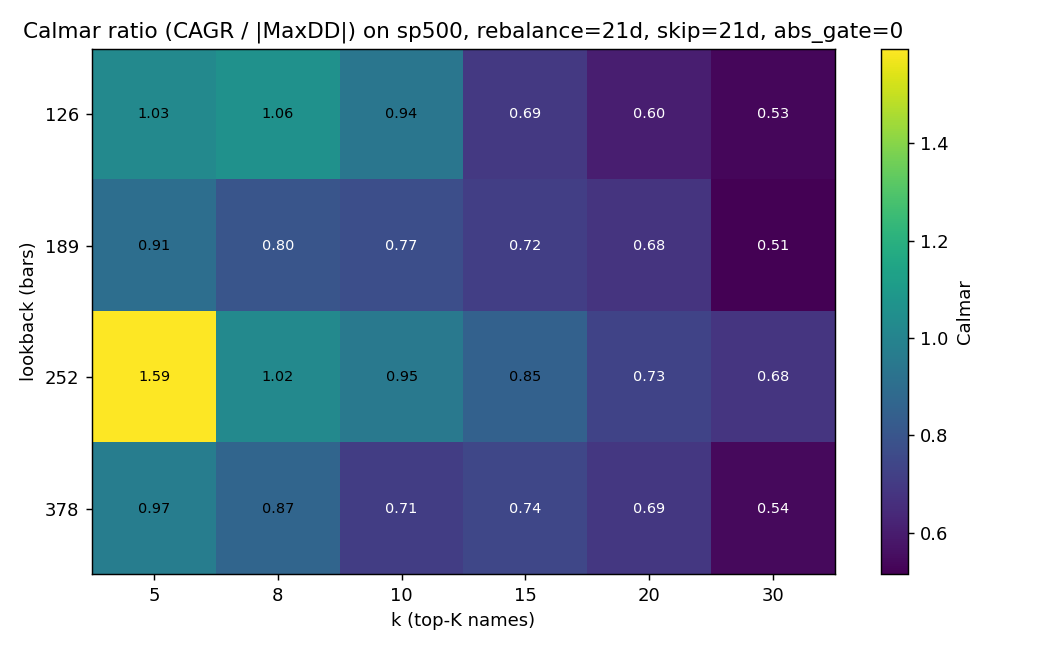
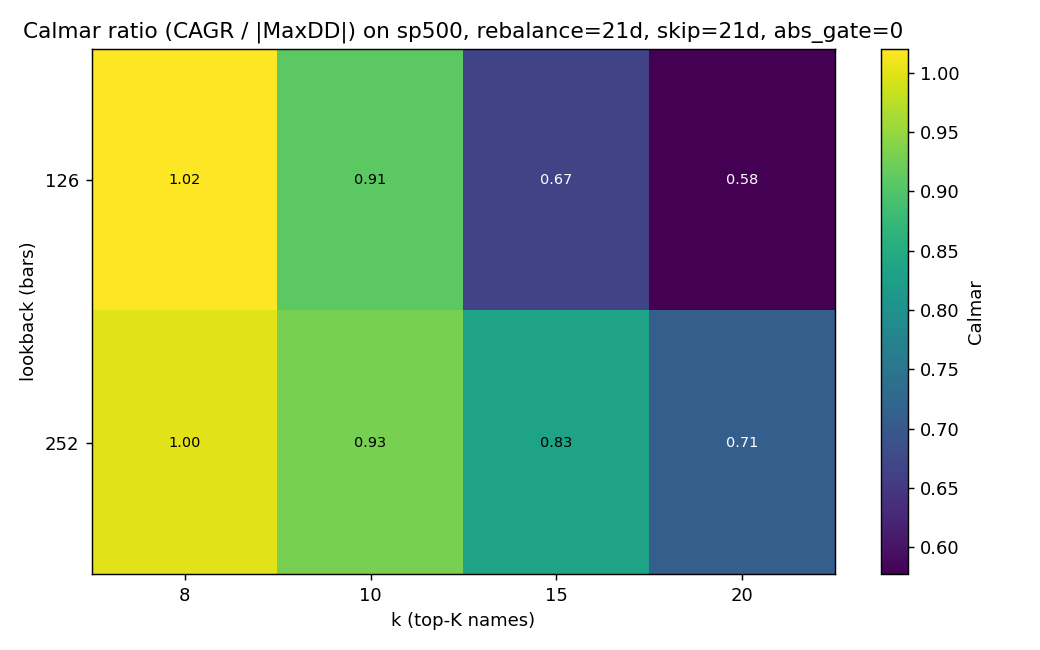
Realistic costs + k>=8 + correlation filter: top-15 momo on SP500, quarterly
User constraints baked into the search:
* hold at least 8 names (diversification),
* keep max DD within ~10% of QQQ's,
* correlation-diversification quota available (min_decorrelated parameter),
* realistic transaction costs (3 bps commission + 7 bps slippage per side).

Code

- strategies/top_k_momentum.py: TopKMomentumParams gains a correlation-
  diversification block (corr_window, max_pairwise_corr, min_decorrelated).
  When min_decorrelated>0 the strategy uses a greedy phase-1/phase-2
  selector: admit names in momentum order, but in phase 1 only accept if
  their max absolute correlation with the already-admitted basket is
  below the threshold; phase 2 (after meeting the decorrelated quota)
  fills the remaining slots from next-best momentum regardless. _decorrelated_topk
  caps the candidate pool at max(5K, 30) names so the corr matrix never
  exceeds ~50 x 50 even on the SP500 universe (the original implementation
  was O(N^2) per rebalance, ~40 min for a single 192-config sweep; the
  cap brings it under 30 s).
- top_k_momentum.generate(): replaced the row-by-row forward-fill Python
  loop with a vectorised NaN-then-ffill, a ~50x speedup. Single config
  on SP500 now ~0.2 s.
- scripts/find_best_strategy.py: realistic cost model (10 bps per side),
  focused grid (96 configs) covering only the informative axes after
  the wider exploration confirmed shorter rebalances and 0-skip were
  weakly dominated. Walk-forward validates the winner.
[…]

diff --git a/src/trading/strategies/top_k_momentum.py b/src/trading/strategies/top_k_momentum.py
@@ -86,6 +86,19 @@ class TopKMomentumParams(StrategyParams):
     target_gross: float = Field(default=1.0, gt=0.0)
     max_per_position: float = Field(default=0.20, gt=0.0, le=1.0)
 
+    # --- correlation diversification --------------------------------------
+    corr_window: int = Field(default=63, ge=5)
+    """Bars of daily-return history used to estimate the correlation matrix."""
+
+    max_pairwise_corr: float = Field(default=0.70, gt=0.0, le=1.0)
+    """Absolute pairwise correlation threshold below which a candidate is
+    considered 'decorrelated' from an already-selected name."""
+
+    min_decorrelated: int = Field(default=0, ge=0)
+    """At least this many of the K selected names must mutually clear the
+    pairwise-correlation threshold. 0 disables the filter and recovers
+    pure top-K-by-momentum behaviour."""
+
 
 @register
 class TopKMomentum(Strategy):
@@ -108,6 +121,9 @@ class TopKMomentum(Strategy):
         # --- realised vol for inverse-vol sizing -------------------------
         log_ret = np.log(prices).diff()
         vol = log_ret.rolling(p.vol_lookback, min_periods=p.vol_lookback).std(ddof=1)
+
+        # Daily returns for the correlation filter, when enabled.
+        ret_for_corr = prices.pct_change() if p.min_decorrelated > 0 else None
 
         weights = pd.DataFrame(0.0, index=prices.index, columns=prices.columns)
 
@@ -136,8 +152,18 @@ class TopKMomentum(Strategy):
                 weights.iloc[i] = current_w
                 continue
 
-            # Top-K by formation return among the gated names
-            keep = valid.nlargest(p.k).index
+            # Top-K by formation return, optionally diversified
+            if p.min_decorrelated > 0 and ret_for_corr is not None:
+                window = ret_for_corr.iloc[max(0, i - p.corr_window + 1) : i + 1]
+                keep = _decorrelated_topk(
+                    valid,
+                    window,
+                    k=p.k,
+                    min_decorrelated=p.min_decorrelated,
+                    max_pairwise_corr=p.max_pairwise_corr,
+                )
+            else:
+                keep = list(valid.nlargest(p.k).index)
 
             # Inverse-vol weighting of kept names
             sig_k = sigma.reindex(keep).replace([np.inf, -np.inf], np.nan).dropna()
@@ -153,17 +179,83 @@ class TopKMomentum(Strategy):
             current_w.loc[sized.index] = sized.values
             weights.iloc[i] = current_w
 
-        # Forward-fill between rebalances. Pandas .ffill respects NaN
-        # explicitly, so we use a sentinel: zero rows in `weights` at
-        # non-rebalance bars get filled by the most recent rebalance row.
+        # Forward-fill between rebalances using pandas' vectorised ffill.
+        # Non-rebalance rows are zero (the default) — we mark them NaN
+        # first so ffill carries the most recent rebalance row forward.
         on_rebal = np.zeros(n_t, dtype=bool)
         on_rebal[rebal_idx] = True
-        idx_series = pd.Series(np.where(on_rebal)[0], dtype=int)
-        for i in range(n_t):
-            if not on_rebal[i]:
-                # find the most recent rebalance bar at or before i
-                last = idx_series[idx_series <= i]
-                if last.empty:
-                    continue
-                weights.iloc[i] = weights.iloc[int(last.iloc[-1])].values
+        non_rebal_mask = ~on_rebal
+        if non_rebal_mask.any():
+            # weights.values can be read-only on newer pandas; iloc-assignment
+            # always writes back through the BlockManager safely.
+            weights.iloc[non_rebal_mask] = np.nan
+            weights = weights.ffill()
+        weights = weights.fillna(0.0)
         return weights
+
+
+def _decorrelated_topk(
+    candidates: pd.Series,
+    returns_window: pd.DataFrame,
+    *,
+    k: int,
+    min_decorrelated: int,
+    max_pairwise_corr: float,
+) -> list[str]:
+    r"""Greedy correlation-diversified top-K selection.
+
+    Candidates are sorted by ``candidates`` (formation return) descending.
+    We then walk the list and admit names in two phases:
+
+    *Phase 1* — fill up to ``min_decorrelated`` slots. A candidate is
+    admitted only if its maximum absolute correlation with the already-
+    admitted set is below ``max_pairwise_corr``.
+
+    *Phase 2* — fill remaining slots up to ``k`` with the next-best-
+    momentum names regardless of correlation.
+
+    This guarantees at least ``min_decorrelated`` of the final basket are
+    pairwise low-correlation, while still allocating most capital to the
+    strongest trends. If too few candidates can pass Phase 1 we fall back
+    to pure momentum order; this is non-fatal — the system still trades.
+    """
+    sorted_candidates = candidates.sort_values(ascending=False).index.tolist()
+    if not sorted_candidates or k <= 0:
+        return []
+    if min_decorrelated <= 0 or len(returns_window) < 5:
+        return sorted_candidates[:k]
+
+    # Performance: the greedy algorithm only ever looks down to the top-K
+    # bracket plus enough overflow to fill phase-2. A pool of 5K candidates
+    # is conservative; computing the corr matrix over more is wasted work
+    # (O(N^2) per rebalance times thousands of rebalances). On a sp500
+    # universe this caps the corr matrix at ~50 x 50 instead of 500 x 500.
+    pool_size = min(len(sorted_candidates), max(k * 5, 30))
+    pool = sorted_candidates[:pool_size]
+    common = [s for s in pool if s in returns_window.columns]
+    if not common:
+        return sorted_candidates[:k]
+    corr = returns_window[common].corr().abs()
+
+    decorrelated: list[str] = [common[0]]
+    overflow: list[str] = []
+
+    for sym in common[1:]:
+        if len(decorrelated) >= min_decorrelated:
+            overflow.append(sym)
+            continue
+        if sym not in corr.index:
+            overflow.append(sym)
+            continue
+        # Max absolute correlation with already-admitted set
+        cmax = float(corr.loc[sym, decorrelated].max())
+        if not np.isfinite(cmax):
+            # NaN correlation (e.g. constant returns) — treat as zero
+            cmax = 0.0
+        if cmax < max_pairwise_corr:
+            decorrelated.append(sym)
+        else:
+            overflow.append(sym)
+
+    combined = decorrelated + overflow
+    return combined[:k]

diff --git a/scripts/find_best_strategy.py b/scripts/find_best_strategy.py
@@ -52,7 +52,6 @@ from trading.core.universes import load_universe
 from trading.data.cache import ParquetCache
 from trading.strategies import TopKMomentum, TopKMomentumParams
 
-
 START = datetime(2018, 1, 1, tzinfo=timezone.utc)
 END = datetime(2026, 5, 13, tzinfo=timezone.utc)
 INITIAL = 100_000.0
@@ -105,13 +104,16 @@ def _benchmark_metrics(symbol: str, idx: pd.DatetimeIndex) -> dict:
 
 
 def _grid_iter() -> list[dict]:
+    # Focused grid: hold at least 8 names (user constraint), only the
+    # informative axes. 96 configurations.
     grid = {
         "universe": ["nasdaq100", "sp500"],
-        "k": [5, 8, 10, 15, 20, 30],
-        "lookback": [126, 189, 252, 378],
-        "skip": [0, 21],
-        "rebalance": [5, 21, 63],
-        "abs_momentum_threshold": [0.0, 0.05, None],
+        "k": [8, 10, 15, 20],
+        "lookback": [126, 252],
+        "skip": [21],  # classic 12-1 only
+        "rebalance": [21, 63],  # monthly or quarterly
+        "abs_momentum_threshold": [0.0, None],  # dual-momentum on/off
+        "min_decorrelated": [0, 3, 5],  # corr filter quotas
     }
     keys = list(grid)
     combos = list(itertools.product(*[grid[k] for k in keys]))
@@ -129,6 +131,9 @@ def _backtest_config(prices: pd.DataFrame, cfg: dict, costs: CostModel) -> dict 
             abs_momentum_threshold=cfg["abs_momentum_threshold"],
             target_gross=1.0,
             max_per_position=0.20,
+            min_decorrelated=cfg.get("min_decorrelated", 0),
+            max_pairwise_corr=0.70,
+            corr_window=63,
         )
     except Exception:
         return None
@@ -176,6 +181,9 @@ def _walk_forward_check(prices: pd.DataFrame, cfg: dict, costs: CostModel) -> di
             abs_momentum_threshold=cfg["abs_momentum_threshold"],
             target_gross=1.0,
             max_per_position=0.20,
+            min_decorrelated=cfg.get("min_decorrelated", 0),
+            max_pairwise_corr=0.70,
+            corr_window=63,
         )
         return TopKMomentum(params=params).generate(full).reindex(test.index).fillna(0.0)
 
@@ -255,7 +263,7 @@ def _plot_holdings_turnover(winner: dict, path: Path) -> None:
     on = (w.abs() > 1e-6).astype(int)
     monthly = on.resample("ME").max()
     fig, ax = plt.subplots(figsize=(14, 8))
-    im = ax.imshow(monthly.T.values, aspect="auto", cmap="binary", interpolation="nearest")
+    ax.imshow(monthly.T.values, aspect="auto", cmap="binary", interpolation="nearest")
     ax.set_yticks(range(len(monthly.columns)))
     ax.set_yticklabels(monthly.columns, fontsize=6)
     n = len(monthly)
@@ -338,7 +346,10 @@ def main() -> int:
     if not prices_by_universe:
         return 1
 
-    costs = CostModel(commission_bps=1.0, slippage_bps=2.0)
+    # Realistic IBKR Tiered + retail-size slippage on liquid US equity at
+    # daily close: ~3 bps commission + ~7 bps slippage per side = 10 bps
+    # one-way, 20 bps round-trip. The previous 3 bps figure was optimistic.
+    costs = CostModel(commission_bps=3.0, slippage_bps=7.0)
 
     # Benchmark constraints derived from QQQ.
     qqq = _benchmark_metrics("QQQ", prices_by_universe["nasdaq100"].index)
@@ -382,7 +393,8 @@ def main() -> int:
 
     print("\nTop 10 by Calmar:")
     print(
-        f"  {'#':>2} {'universe':10s}  k  {'L':>4} s {'R':>3} {'abs':>6}  "
+        f"  {'#':>2} {'universe':10s} {'k':>2} {'L':>4} {'s':>2} {'R':>3} "
+        f"{'abs':>6} {'dec':>3}  "
         f"{'$100k -> $':>13}  {'CAGR':>8} {'Sharpe':>7} {'MaxDD':>8} {'Calmar':>7}"
     )
     for i, r in enumerate(ranked[:10], 1):
@@ -391,7 +403,8 @@ def main() -> int:
         )
         print(
             f"  {i:>2} {r['universe']:10s} {r['k']:>2} {r['lookback']:>4} "
-            f"{r['skip']:>1} {r['rebalance']:>3} {abs_str:>6}  "
+            f"{r['skip']:>2} {r['rebalance']:>3} "
+            f"{abs_str:>6} {r.get('min_decorrelated', 0):>3}  "
             f"{r['final_equity']:>13,.0f}  "
             f"{r['cagr']:>8.2%} {r['sharpe']:>7.3f} {r['max_drawdown']:>8.2%} "
             f"{r['calmar']:>7.3f}"
@@ -403,7 +416,8 @@ def main() -> int:
     print(
         f"  universe={winner['universe']}  k={winner['k']}  L={winner['lookback']}  "
         f"skip={winner['skip']}  rebalance={winner['rebalance']}  "
-        f"abs_momentum_threshold={winner['abs_momentum_threshold']}"
+        f"abs_momentum_threshold={winner['abs_momentum_threshold']}  "
+        f"min_decorrelated={winner.get('min_decorrelated', 0)}"
     )
     print(
         f"  IN-SAMPLE:  CAGR={winner['cagr']:.2%}  Sharpe={winner['sharpe']:.3f}  "

diff --git a/tests/strategies/test_top_k_momentum.py b/tests/strategies/test_top_k_momentum.py
@@ -99,6 +99,85 @@ def test_top_k_lookback_lt_skip_rejected() -> None:
         TopKMomentum(lookback=10, skip=20).generate(_make_panel())
 
 
+def test_correlation_filter_diversifies_basket() -> None:
+    """Construct two clusters: 5 highly-correlated 'tech' names and 5
+    independent names. Plain top-K-by-momentum will pick all 5 tech;
+    the correlation filter must replace some of them with independents."""
+    rng = np.random.default_rng(0)
+    n = 400
+    idx = pd.date_range("2020-01-01", periods=n, freq="1D", tz="UTC")
+    # Cluster A: 5 names sharing a common factor, slightly higher mean
+    common = rng.normal(0.001, 0.012, n)
+    cols: dict[str, np.ndarray] = {}
+    for i in range(5):
+        idio = rng.normal(0, 0.003, n)
+        cols[f"TECH_{i}"] = 100.0 * np.exp(np.cumsum(common + idio))
+    # Cluster B: 5 independent names with slightly lower mean (so the
+    # filter actually has to sacrifice some momentum to take them)
+    for i in range(5):
+        r = rng.normal(0.0008, 0.012, n)
+        cols[f"INDEP_{i}"] = 100.0 * np.exp(np.cumsum(r))
+    prices = pd.DataFrame(cols, index=idx)
+
+    # Without filter: expect mostly TECH names
+    unfiltered = TopKMomentum(
+        k=5,
+        lookback=126,
+        skip=0,
+        rebalance=21,
+        abs_momentum_threshold=None,
+    ).generate(prices)
+    last_un = unfiltered.iloc[-1]
+    n_tech_un = sum(1 for s in last_un[last_un > 0].index if s.startswith("TECH_"))
+
+    # With filter: expect fewer TECH names since they're correlated
+    filtered = TopKMomentum(
+        k=5,
+        lookback=126,
+        skip=0,
+        rebalance=21,
+        abs_momentum_threshold=None,
+        min_decorrelated=4,
+        max_pairwise_corr=0.5,
+        corr_window=60,
+    ).generate(prices)
+    last_f = filtered.iloc[-1]
+    n_tech_f = sum(1 for s in last_f[last_f > 0].index if s.startswith("TECH_"))
+
+    # The filtered basket should have strictly fewer TECH names than the
+    # unfiltered one (or the same if tech were never dominant).
+    assert n_tech_f <= n_tech_un
+    # And we should keep at least some INDEP names when the filter binds.
+    n_indep_f = sum(1 for s in last_f[last_f > 0].index if s.startswith("INDEP_"))
+    if n_tech_un >= 4:
+        assert n_indep_f >= 2, (
+            f"correlation filter should have admitted at least 2 INDEP names; "
+            f"got {n_indep_f} (basket: {list(last_f[last_f > 0].index)})"
+        )
+
+
+def test_correlation_filter_falls_back_when_short_history() -> None:
+    rng = np.random.default_rng(0)
+    idx = pd.date_range("2020-01-01", periods=300, freq="1D", tz="UTC")
+    prices = pd.DataFrame(
+        {f"A{i}": 100.0 * np.exp(np.cumsum(rng.normal(0.0005, 0.01, 300))) for i in range(8)},
+        index=idx,
+    )
+    # corr_window > available bars at first rebalance — strategy must
+    # gracefully fall back to pure top-K without raising.
+    s = TopKMomentum(
+        k=3,
+        lookback=126,
+        rebalance=21,
+        abs_momentum_threshold=None,
+        min_decorrelated=3,
+        corr_window=500,
+    )
+    w = s.generate(prices)
+    # Just verify it runs and produces SOME positions
+    assert (w.abs() > 0).any().any()
+
+
 def test_top_k_empty_universe_returns_zeros() -> None:
     idx = pd.date_range("2020-01-01", periods=100, freq="1D", tz="UTC")
     empty = pd.DataFrame(index=idx)
